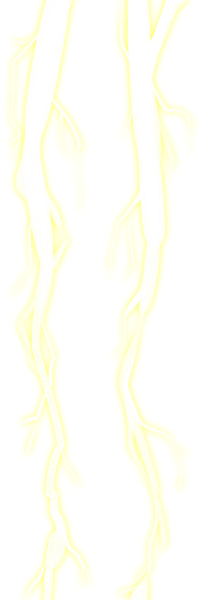
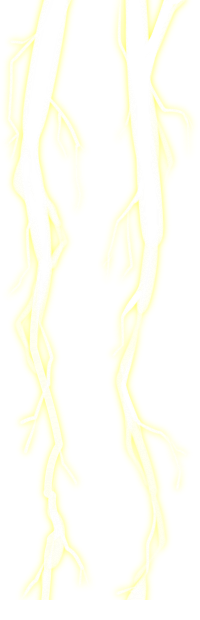
made animation smaller put in tokens

diff --git a/core/src/edu/cornell/gdiac/ailab/AnimationPool.java b/core/src/edu/cornell/gdiac/ailab/AnimationPool.java
@@ -15,6 +15,8 @@ public class AnimationPool{
 	//List of AnimationNodes to draw
 	List<AnimationNode> pool;
 	
+	private static final float ANIMATION_BOARD_SCALE = 0.85f;
+	
 	public AnimationPool(){
 		pool = new LinkedList<AnimationNode>();
 	}
@@ -25,7 +27,7 @@ public class AnimationPool{
 	
 	public float getBoardScale(GameCanvas canvas,float textureWidth,GridBoard board){
 		float tileW = board.getTileWidth(canvas);
-		return tileW/textureWidth;
+		return (tileW*ANIMATION_BOARD_SCALE)/textureWidth;
 	}
 	
 	@SuppressWarnings("unchecked")

diff --git a/core/src/edu/cornell/gdiac/ailab/ObjectLoader.java b/core/src/edu/cornell/gdiac/ailab/ObjectLoader.java
@@ -275,6 +275,7 @@ public class ObjectLoader {
 	 */
 	private void loadKeysFromActions(HashMap<Integer, HashMap<String, Object>> actions) {
 		for (Integer actionId: availableActions.keySet()) {
+			System.out.println(actionId);
 			Integer animationId = (Integer) (actions.get(actionId).get("animationId"));
 			availableAnimations.put(animationId, null);
 			Integer projectileAnimationId = (Integer) (actions.get(actionId).get("projectileAnimationId"));
